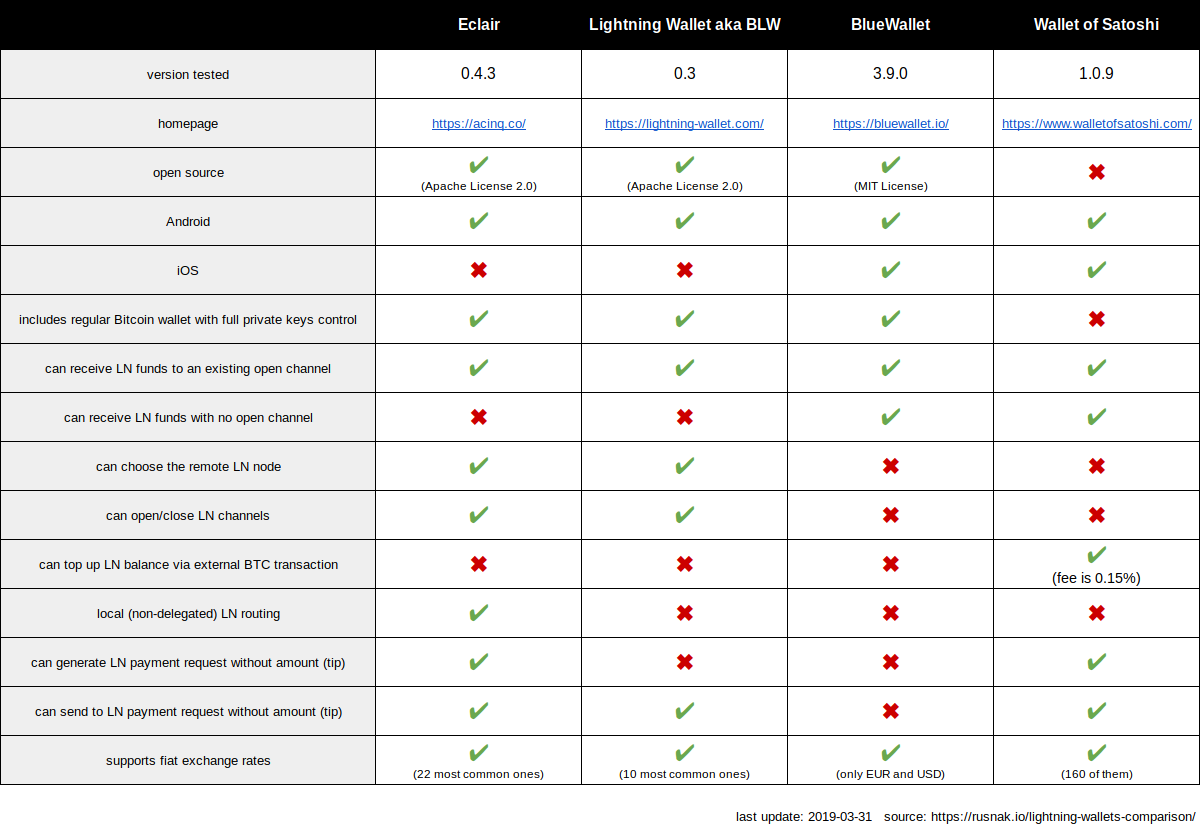
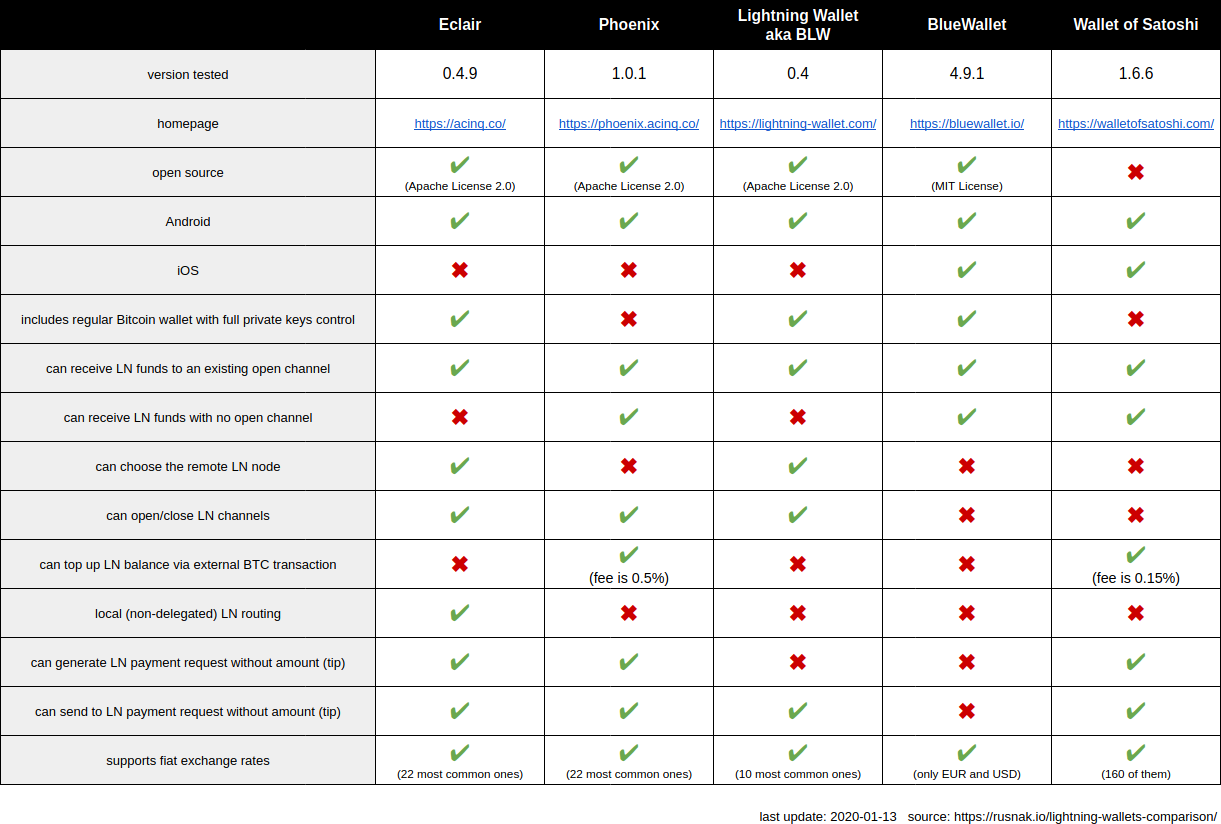
update lightning-wallets-comparison

diff --git a/_posts/2019-01-05-lightning-wallets-comparison.md b/_posts/2019-01-05-lightning-wallets-comparison.md
@@ -3,7 +3,7 @@ layout: post
 title: Lightning Wallets Comparison
 ---
 
-This post compares four Lightning Wallets for Android (and iOS).
+This post compares five Lightning Wallets for Android (and iOS).
 
 Please contact me via the email in the sidebar if you want to change something and/or if you have an idea what should I add to the comparison. Thank you!
 
@@ -14,6 +14,12 @@ Please contact me via the email in the sidebar if you want to change something a
 * summary: full blown Bitcoin/Lightning wallet, where everything is under your control
 * homepage: [https://acinq.co/](https://acinq.co/)
 * Android: [Google Play](https://play.google.com/store/apps/details?id=fr.acinq.eclair.wallet.mainnet2)
+
+## Phoenix
+
+* summary: quick and simple non-custodial Lightning-only wallet
+* homepage: [https://phoenix.acinq.co/](https://phoenix.acinq.co/)
+* Android: [Google Play](https://play.google.com/store/apps/details?id=fr.acinq.phoenix.mainnet)
 
 ## Lightning Wallet aka BLW
 
